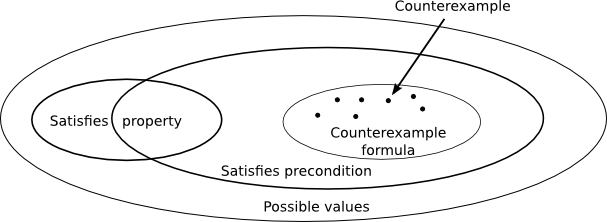
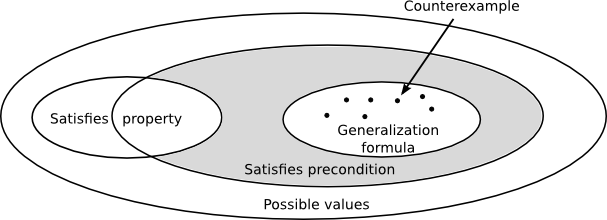
paper: more on precondition generalization.

diff --git a/paper/paper.tex b/paper/paper.tex
@@ -466,6 +466,9 @@ presented in Section~\ref{sec:conclusions}.
 %%%%%%%%%%%%%%%%%%%%%%%%%%%%%%%%%%%%%%%%%%%%%%%%
 \section{Preliminaries}\label{sec:preliminaries}
 
+
+\todo{make clear that preconditions shouldn't be considered logical preconditions}
+
 To present the algorithms in the following sections, we provide some definitions
 here.  Our presentation simplifies the implementation
 (Section~\ref{sec:implementation}) somewhat to improve the presentation.
@@ -1021,7 +1024,35 @@ fails the property; \ttp{Just False} if \ttp{cex} non-trivially satisfies
 constant \ttp{scMinExtrap} is the minimum number of \ttp{Just False} results
 required from \ttp{fail} to extrapolate from failed tests to a universal claim.
 
-\todo{Add discussion here}
+\todo{Add discussion here, note may be overapprox, since testing}
+
+\subsection{Automated Precondition Strengthening}
+
+The extrapolation algorithm generalizes a counterexample, but in the
+``neighborhood'' of he original counterexample.  In particular, all
+generalizations are from the same variant as the original counterexample.  To
+help the programmer in the generalization step, we would also like a way to test
+the property again, ensuring we get counterexamples (if they exist) outside of
+the neighborhood of the original one.
+
+\begin{figure}[ht!]
+  \begin{center}
+    \includegraphics[scale=0.5]{Figs/cex-gen}
+   \end{center}
+  \caption{Counterexample generalization.}
+  \label{fig:cex-gen}
+\end{figure}
+
+Figure~\ref{fig:cex-gen} illustrates the situation in which we have some values
+and a property in the case that some values fail the property of the form
+(\ttp{pre ==> prop}).  Our goal is to find additional counterexamples in the
+shaded region, in which \ttp{pre} is satisfied, \ttp{prop} is not satisfied, and
+the counterexample is not already characterized by a universal sub-value
+generalization formula.
+
+\todo{talk about matches shape algorithm, real-eval-print}
+
+
 
 \subsection{Existential Sub-Value Generalization}
 
@@ -1160,19 +1191,6 @@ current constructor is not an element of constructors already seen.  Thus,
 \ttp{go v} returns \ttp{Just True} if \ttp{replace cex idx v} passes this
 precondition (and any other preconditions of \ttp{prop}), but fails the
 property.
-
-
-\subsection{Automated Invariant Strengthening}
-
-\begin{figure}[ht!]
-  \begin{center}
-    \includegraphics[scale=0.5]{Figs/cex-gen}
-   \end{center}
-  \caption{Counterexample generalization.}
-  \label{fig:cex-gen}
-\end{figure}
-
-\todo{check all option names}
 
 \subsection{Generalization Details}
 
